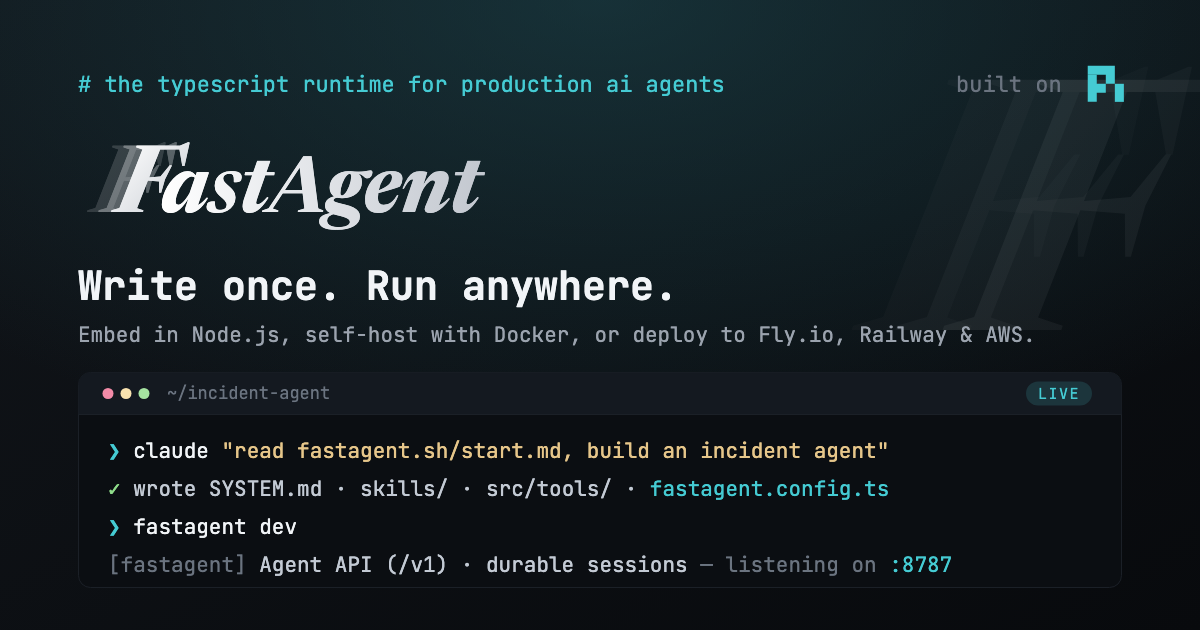
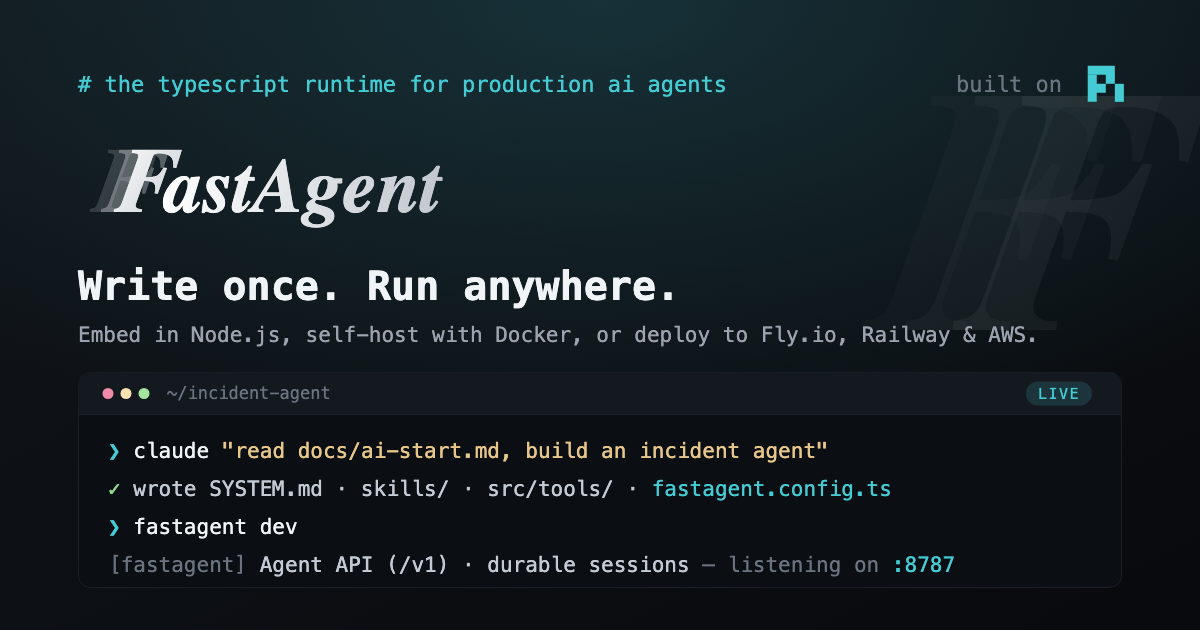
docs: make repository links and onboarding self-contained without fastagent.sh

diff --git a/examples/incident-triage-agent/webhook-trigger.ts b/examples/incident-triage-agent/webhook-trigger.ts
@@ -17,7 +17,7 @@ const incidentId = process.env.INCIDENT_ID ?? "inc-2026-0415";
 const alertEventId = process.env.ALERT_EVENT_ID ?? `${incidentId}-evt-1`;
 const alertSummary =
   process.env.ALERT_SUMMARY ??
-  "5xx error rate spiked on https://fastagent.sh — probe the endpoint and inspect recent commits in fastagent-sh/fastagent.";
+  "5xx error rate spiked on https://api.example.com/health — probe the endpoint and inspect recent commits in fastagent-sh/fastagent.";
 
 const agent = connectAgent(baseUrl, { apiKey });
 

diff --git a/README.md b/README.md
@@ -1,5 +1,5 @@
 <p align="center">
-  <a href="https://fastagent.sh"><img src="https://raw.githubusercontent.com/fastagent-sh/fastagent/main/assets/hero.png" alt="FastAgent — The TypeScript runtime for production AI agents." width="860"></a>
+  <a href="https://github.com/fastagent-sh/fastagent"><img src="https://raw.githubusercontent.com/fastagent-sh/fastagent/main/assets/hero.png" alt="FastAgent — The TypeScript runtime for production AI agents." width="860"></a>
 </p>
 
 <h3 align="center">The TypeScript runtime for production AI agents.</h3>
@@ -23,12 +23,12 @@
 </p>
 
 <p align="center">
-  <a href="https://fastagent.sh/docs/quickstart/"><strong>Quickstart</strong></a> ·
+  <a href="https://github.com/fastagent-sh/fastagent/blob/main/docs/quickstart.md"><strong>Quickstart</strong></a> ·
   <a href="https://github.com/fastagent-sh/fastagent/tree/main/examples">Examples</a> ·
-  <a href="https://fastagent.sh/docs/packaging-and-ci/">Packaging &amp; CI</a> ·
-  <a href="https://fastagent.sh/docs/embedding/">Embed</a> ·
-  <a href="https://fastagent.sh/docs/deploy/">Deploy</a> ·
-  <a href="https://fastagent.sh/docs/">Docs</a> ·
+  <a href="https://github.com/fastagent-sh/fastagent/blob/main/docs/packaging-and-ci.md">Packaging &amp; CI</a> ·
+  <a href="https://github.com/fastagent-sh/fastagent/blob/main/docs/embedding.md">Embed</a> ·
+  <a href="https://github.com/fastagent-sh/fastagent/blob/main/docs/deploy.md">Deploy</a> ·
+  <a href="https://github.com/fastagent-sh/fastagent/blob/main/docs/README.md">Docs</a> ·
   <a href="https://github.com/fastagent-sh/fastagent/discussions">Discussions</a>
 </p>
 
@@ -64,9 +64,9 @@ fastagent invoke "hello"      # send a message through the Agent API
 
 **Using a coding agent?** Paste this into Claude Code, Codex, Cursor, or Pi:
 
-> Read https://fastagent.sh/start.md and build an agent in this project.
+> Read https://raw.githubusercontent.com/fastagent-sh/fastagent/main/docs/ai-start.md and build an agent in this project.
 
-> **Tip:** Without a global install, run `npx @fastagent-sh/fastagent <command>` (never `npx fastagent`, which is an unrelated package). See the full [Quickstart](https://fastagent.sh/docs/quickstart/).
+> **Tip:** Without a global install, run `npx @fastagent-sh/fastagent <command>` (never `npx fastagent`, which is an unrelated package). See the full [Quickstart](https://github.com/fastagent-sh/fastagent/blob/main/docs/quickstart.md).
 
 ## Write once in Markdown & TypeScript
 
@@ -116,7 +116,7 @@ npm exec -- fastagent deploy check --json   # blocks builds if .secrets/, .env*,
 npm publish ./dist --access restricted
 ```
 
-Upgrading or rolling back an agent is a standard SemVer version change (`npm i @acme/saas-copilot@1.4.2`). See [Packaging, Distribution & CI/CD](https://fastagent.sh/docs/packaging-and-ci/).
+Upgrading or rolling back an agent is a standard SemVer version change (`npm i @acme/saas-copilot@1.4.2`). See [Packaging, Distribution & CI/CD](https://github.com/fastagent-sh/fastagent/blob/main/docs/packaging-and-ci.md).
 
 ## Embed, self-host, or call over HTTP
 
@@ -224,7 +224,7 @@ Clone a complete working agent from [`examples/`](https://github.com/fastagent-s
 
 ## Architecture & operations
 
-Every caller speaks one contract: the [Agent API](https://fastagent.sh/docs/agent-api/). Swap models, storage backends, hosts, or execution harnesses without changing your agent or application code:
+Every caller speaks one contract: the [Agent API](https://github.com/fastagent-sh/fastagent/blob/main/docs/agent-api.md). Swap models, storage backends, hosts, or execution harnesses without changing your agent or application code:
 
 ```text
 Callers (CLI · openAgent · @fastagent-sh/client · client-agentcore · @fastagent-sh/pi-remote)
@@ -243,7 +243,7 @@ Callers (CLI · openAgent · @fastagent-sh/client · client-agentcore · @fastag
 
 - **Privacy-safe tracing:** Export cost, token, and tool spans via OpenTelemetry (`OTEL_EXPORTER_OTLP_ENDPOINT`) without logging prompts or answers.
 - **Remote CLI & OAuth:** Manage live instances (`fastagent remote add prod <url>`) and complete provider OAuth remotely (`fastagent login openai-codex --remote prod`).
-- **Live terminal attach:** Inspect or steer running remote sessions from your terminal with [`@fastagent-sh/pi-remote`](https://fastagent.sh/docs/remotes/).
+- **Live terminal attach:** Inspect or steer running remote sessions from your terminal with [`@fastagent-sh/pi-remote`](https://github.com/fastagent-sh/fastagent/blob/main/docs/remotes.md).
 
 ## Packages & documentation
 
@@ -256,12 +256,12 @@ Callers (CLI · openAgent · @fastagent-sh/client · client-agentcore · @fastag
 | [`@fastagent-sh/harness-dsh`](https://github.com/fastagent-sh/fastagent/blob/main/packages/harness-dsh/README.md) | Optional DeepSeek Harness (`@deepseek-ai/dsh`) adapter with kernel OS sandboxing (experimental) | Node ≥ 24.15 (26 LTS recommended) |
 | [`@fastagent-sh/pi-remote`](https://github.com/fastagent-sh/fastagent/blob/main/packages/pi-remote/README.md) | Pi TUI extension (`/fa`) for live terminal access to deployed HTTP or AgentCore instances | Node ≥ 24.15 (26 LTS recommended) |
 
-**Docs at [fastagent.sh/docs](https://fastagent.sh/docs/):**
-[Overview](https://fastagent.sh/docs/overview/) · [Quickstart](https://fastagent.sh/docs/quickstart/) · [Packaging & CI](https://fastagent.sh/docs/packaging-and-ci/) · [AI Guide](https://fastagent.sh/docs/ai-start/) · [Architecture](https://fastagent.sh/docs/architecture/) · [Agent API](https://fastagent.sh/docs/agent-api/) · [Configuration](https://fastagent.sh/docs/configuration/) · [MCP](https://fastagent.sh/docs/mcp/) · [Embedding](https://fastagent.sh/docs/embedding/) · [Deploy](https://fastagent.sh/docs/deploy/) · [AgentCore](https://fastagent.sh/docs/agentcore/) · [Remotes](https://fastagent.sh/docs/remotes/) · [CLI](https://fastagent.sh/docs/cli/) · [API Reference](https://fastagent.sh/docs/api-reference/)
+**Documentation ([docs/](https://github.com/fastagent-sh/fastagent/blob/main/docs/README.md)):**
+[Overview](https://github.com/fastagent-sh/fastagent/blob/main/docs/overview.md) · [Quickstart](https://github.com/fastagent-sh/fastagent/blob/main/docs/quickstart.md) · [Packaging & CI](https://github.com/fastagent-sh/fastagent/blob/main/docs/packaging-and-ci.md) · [AI Guide](https://github.com/fastagent-sh/fastagent/blob/main/docs/ai-start.md) · [Architecture](https://github.com/fastagent-sh/fastagent/blob/main/docs/architecture.md) · [Agent API](https://github.com/fastagent-sh/fastagent/blob/main/docs/agent-api.md) · [Configuration](https://github.com/fastagent-sh/fastagent/blob/main/docs/configuration.md) · [MCP](https://github.com/fastagent-sh/fastagent/blob/main/docs/mcp.md) · [Embedding](https://github.com/fastagent-sh/fastagent/blob/main/docs/embedding.md) · [Deploy](https://github.com/fastagent-sh/fastagent/blob/main/docs/deploy.md) · [AgentCore](https://github.com/fastagent-sh/fastagent/blob/main/docs/agentcore.md) · [Remotes](https://github.com/fastagent-sh/fastagent/blob/main/docs/remotes.md) · [CLI](https://github.com/fastagent-sh/fastagent/blob/main/docs/cli.md) · [API Reference](https://github.com/fastagent-sh/fastagent/blob/main/docs/api-reference.md) · [Troubleshooting](https://github.com/fastagent-sh/fastagent/blob/main/docs/troubleshooting.md)
 
 ## Community & status
 
-FastAgent is pre-1.0 with the [Agent API](https://fastagent.sh/docs/agent-api/) as its stable contract. See [releases](https://github.com/fastagent-sh/fastagent/releases), join [GitHub Discussions](https://github.com/fastagent-sh/fastagent/discussions), or read [Contributing](https://github.com/fastagent-sh/fastagent/blob/main/CONTRIBUTING.md), [Code of Conduct](https://github.com/fastagent-sh/fastagent/blob/main/CODE_OF_CONDUCT.md), [Security](https://github.com/fastagent-sh/fastagent/blob/main/SECURITY.md), and the [MIT license](https://github.com/fastagent-sh/fastagent/blob/main/LICENSE).
+FastAgent is pre-1.0 with the [Agent API](https://github.com/fastagent-sh/fastagent/blob/main/docs/agent-api.md) as its stable contract. See [releases](https://github.com/fastagent-sh/fastagent/releases), join [GitHub Discussions](https://github.com/fastagent-sh/fastagent/discussions), or read [Contributing](https://github.com/fastagent-sh/fastagent/blob/main/CONTRIBUTING.md), [Code of Conduct](https://github.com/fastagent-sh/fastagent/blob/main/CODE_OF_CONDUCT.md), [Security](https://github.com/fastagent-sh/fastagent/blob/main/SECURITY.md), and the [MIT license](https://github.com/fastagent-sh/fastagent/blob/main/LICENSE).
 
 > ☁ **Prefer managed hosting?** FastAgent Cloud adds managed multi-instance durability, sleep-when-idle hosting, and observability while self-hosting stays free. [Join the waitlist →](https://tally.so/r/44DVMB)
 

diff --git a/packages/harness-dsh/README.md b/packages/harness-dsh/README.md
@@ -1,6 +1,6 @@
 # @fastagent-sh/harness-dsh (Experimental)
 
-Run any [FastAgent](https://fastagent.sh) with kernel-enforced OS sandboxing (`sandbox-exec` on macOS, `bwrap` / `Landlock` on Linux, restricted tokens on Windows) powered by [DeepSeek Harness (`@deepseek-ai/dsh`)](https://github.com/deepseek-ai/deepseek-harness)—with zero changes to your prompt, skills, portable tools, or callers.
+Run any [FastAgent](https://github.com/fastagent-sh/fastagent) with kernel-enforced OS sandboxing (`sandbox-exec` on macOS, `bwrap` / `Landlock` on Linux, restricted tokens on Windows) powered by [DeepSeek Harness (`@deepseek-ai/dsh`)](https://github.com/deepseek-ai/deepseek-harness)—with zero changes to your prompt, skills, portable tools, or callers.
 
 ## Install
 
@@ -58,4 +58,4 @@ const agent = await openAgent(myAgent, {
 
 Pins `@deepseek-ai/dsh@0.2.2-rc.5` while upstream matures toward a stable release.
 
-See [Configuration](https://fastagent.sh/docs/configuration/#harness-and-sandbox-selection) and [Technical architecture](https://fastagent.sh/docs/architecture/).
+See [Configuration](https://github.com/fastagent-sh/fastagent/blob/main/docs/configuration.md#harness-and-sandbox-selection) and [Technical architecture](https://github.com/fastagent-sh/fastagent/blob/main/docs/architecture.md).

diff --git a/packages/client-agentcore/README.md b/packages/client-agentcore/README.md
@@ -1,6 +1,6 @@
 # @fastagent-sh/client-agentcore
 
-Call a [FastAgent](https://fastagent.sh) service deployed on Amazon Bedrock AgentCore over AWS IAM—from your backend, FastAgent CLI (`--remote`), or `@fastagent-sh/pi-remote`. Zero server, database, CDK, or Node-only dependencies.
+Call a [FastAgent](https://github.com/fastagent-sh/fastagent) service deployed on Amazon Bedrock AgentCore over AWS IAM—from your backend, FastAgent CLI (`--remote`), or `@fastagent-sh/pi-remote`. Zero server, database, CDK, or Node-only dependencies.
 
 ```bash
 npm i @fastagent-sh/client-agentcore
@@ -24,4 +24,4 @@ const providers = await auth.providers();
 
 Re-exports `connectAgent`, `connectAuth`, and `AgentError` from `@fastagent-sh/client` so one backend codebase works seamlessly against local `fastagent dev` over HTTP and AgentCore in production.
 
-See [Amazon Bedrock AgentCore](https://fastagent.sh/docs/agentcore/) and [Remotes & clients](https://fastagent.sh/docs/remotes/).
+See [Amazon Bedrock AgentCore](https://github.com/fastagent-sh/fastagent/blob/main/docs/agentcore.md) and [Remotes & clients](https://github.com/fastagent-sh/fastagent/blob/main/docs/remotes.md).

diff --git a/README.zh-CN.md b/README.zh-CN.md
@@ -1,5 +1,5 @@
 <p align="center">
-  <a href="https://fastagent.sh"><img src="https://raw.githubusercontent.com/fastagent-sh/fastagent/main/assets/hero.png" alt="FastAgent — 面向生产级 AI Agent 的 TypeScript 运行时。" width="860"></a>
+  <a href="https://github.com/fastagent-sh/fastagent"><img src="https://raw.githubusercontent.com/fastagent-sh/fastagent/main/assets/hero.png" alt="FastAgent — 面向生产级 AI Agent 的 TypeScript 运行时。" width="860"></a>
 </p>
 
 <h3 align="center">面向生产级 AI Agent 的 TypeScript 运行时。</h3>
@@ -64,7 +64,7 @@ fastagent invoke "hello"      # 通过 Agent API 发送消息
 
 **正在使用 Coding Agent？** 把下面这句粘贴给 Claude Code、Codex、Cursor 或 Pi：
 
-> Read https://fastagent.sh/start.md and build an agent in this project.
+> Read https://raw.githubusercontent.com/fastagent-sh/fastagent/main/docs/ai-start.md and build an agent in this project.
 
 > **提示：** 不想全局安装？使用 `npx @fastagent-sh/fastagent <command>`（切勿使用 `npx fastagent`，那是另一个无关包）。完整步骤见[快速上手](./docs/zh-CN/quickstart.md)。
 

diff --git a/packages/agentcore/README.md b/packages/agentcore/README.md
@@ -1,6 +1,6 @@
 # @fastagent-sh/agentcore
 
-Deploy your [FastAgent](https://fastagent.sh) on Amazon Bedrock AgentCore with per-user microVM isolation, Amazon Aurora DSQL persistence, and AWS Secrets Manager values.
+Deploy your [FastAgent](https://github.com/fastagent-sh/fastagent) on Amazon Bedrock AgentCore with per-user microVM isolation, Amazon Aurora DSQL persistence, and AWS Secrets Manager values.
 
 ```bash
 npm i @fastagent-sh/agentcore        # adds `fastagent deploy init agentcore` and `fastagent agentcore`
@@ -23,4 +23,4 @@ const agent = connectAgentCore({ runtimeArn, sessionId: sessionOf(user) });
 const message = await agent.invoke({ conversation: "main", content: "hi" }, { wait: 120 });
 ```
 
-See [Amazon Bedrock AgentCore](https://fastagent.sh/docs/agentcore/) and [Technical architecture](https://fastagent.sh/docs/architecture/).
+See [Amazon Bedrock AgentCore](https://github.com/fastagent-sh/fastagent/blob/main/docs/agentcore.md) and [Technical architecture](https://github.com/fastagent-sh/fastagent/blob/main/docs/architecture.md).

diff --git a/packages/client/README.md b/packages/client/README.md
@@ -1,6 +1,6 @@
 # @fastagent-sh/client
 
-Call any HTTP [FastAgent](https://fastagent.sh) service—or manage its remote model-provider logins—from Node, Bun, Deno, or edge workers. Zero Node dependencies; needs only `fetch`.
+Call any HTTP [FastAgent](https://github.com/fastagent-sh/fastagent) service—or manage its remote model-provider logins—from Node, Bun, Deno, or edge workers. Zero Node dependencies; needs only `fetch`.
 
 ```bash
 npm i @fastagent-sh/client
@@ -33,4 +33,4 @@ const providers = await auth.providers();
 
 Also exports the Agent API schemas (`/agent-api`), HTTP contract (`/http/contract`), and pluggable `remotes.json` transport contract (`/remotes`) used by cloud transport clients like `@fastagent-sh/client-agentcore`.
 
-See [Agent API](https://fastagent.sh/docs/agent-api/) and [Remotes & clients](https://fastagent.sh/docs/remotes/).
+See [Agent API](https://github.com/fastagent-sh/fastagent/blob/main/docs/agent-api.md) and [Remotes & clients](https://github.com/fastagent-sh/fastagent/blob/main/docs/remotes.md).

diff --git a/packages/pi-remote/README.md b/packages/pi-remote/README.md
@@ -1,6 +1,6 @@
 # @fastagent-sh/pi-remote
 
-Chat with and operate your deployed [FastAgent](https://fastagent.sh) services directly from the [Pi](https://pi.dev) terminal—over HTTP or installed cloud transports like `@fastagent-sh/client-agentcore`.
+Chat with and operate your deployed [FastAgent](https://github.com/fastagent-sh/fastagent) services directly from the [Pi](https://pi.dev) terminal—over HTTP or installed cloud transports like `@fastagent-sh/client-agentcore`.
 
 ## Install
 
@@ -46,4 +46,4 @@ Run `/fa` inside Pi to add a remote interactively, manage HTTP remotes with `fas
   - The first message in an untitled session sets a concise title automatically.
 - **Remote management:** `/fa off`, `/fa sessions`, `/fa key [--clear]` (server API key), `/fa remotes` (add/remove/switch), `/fa delete`, `/fa status`.
 
-See [Remotes & clients](https://fastagent.sh/docs/remotes/).
+See [Remotes & clients](https://github.com/fastagent-sh/fastagent/blob/main/docs/remotes.md).
